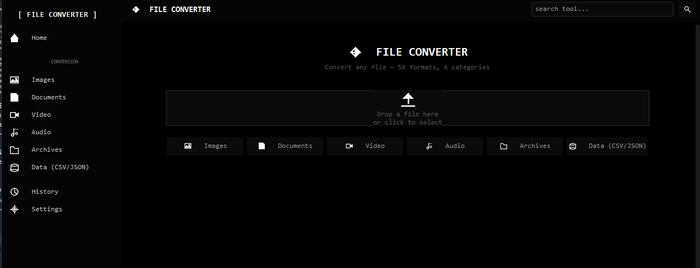
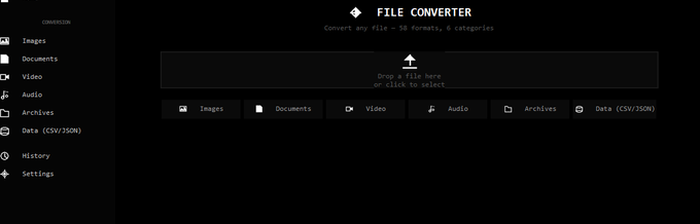
Redesigned README with badges, clean layout, cropped screenshots

diff --git a/README.md b/README.md
@@ -1,75 +1,104 @@
-# FILE CONVERTOR
+<p align="center">
+  <img src="https://img.shields.io/badge/⬇%20FILE%20CONVERTOR-1.0.0-000?style=for-the-badge&labelColor=1a1a1a" alt="FILE CONVERTOR" height="50">
+</p>
 
-> Drop a file. Pick a format. Done.
+<p align="center">
+  <strong>A simple file converter for Windows.</strong><br>
+  <em>Drop a file, pick a format, go.</em>
+</p>
 
-A simple file converter for Windows. Works offline. No ads. No signup.
+<p align="center">
+  <img src="https://img.shields.io/badge/Python-3.10+-blue?style=flat-square&logo=python" alt="Python">
+  <img src="https://img.shields.io/badge/Platform-Windows-0078D4?style=flat-square&logo=windows" alt="Windows">
+  <img src="https://img.shields.io/badge/Offline-Yes-success?style=flat-square" alt="Offline">
+  <img src="https://img.shields.io/badge/License-MIT-green?style=flat-square" alt="License">
+  <img src="https://img.shields.io/github/stars/xacrisoftware/FileConvertor?style=flat-square" alt="Stars">
+</p>
 
 ---
 
 ## 📸 Screenshots
 
-![App](assets/screenshots/Screenshot_3.png)
-![Settings & formats](assets/screenshots/Screenshot_4.png)
+<p align="center">
+  <img src="assets/screenshots/Screenshot_3.png" alt="FILE CONVERTOR interface" width="80%">
+  <br>
+  <em>Main interface — format selection and conversion</em>
+</p>
 
----
-
-## 📦 What you can convert
-
-| Category | Formats | Count |
-|----------|---------|-------|
-| 🖼️ Images | PNG ↔ JPEG ↔ WEBP ↔ BMP ↔ GIF ↔ TIFF ↔ ICO ↔ AVIF ↔ PPM ↔ PCX ↔ TGA ↔ QOI ↔ DDS ↔ SGI ↔ PDF ↔ more | **29** |
-| 🎬 Video | MP4 ↔ AVI ↔ MOV ↔ MKV ↔ WEBM ↔ GIF ↔ FLV ↔ WMV ↔ M4V ↔ MPEG ↔ 3GP ↔ OGV ↔ TS ↔ VOB ↔ more | **17** |
-| 🎵 Audio | MP3 ↔ WAV ↔ OGG ↔ FLAC ↔ M4A ↔ AAC ↔ OPUS ↔ AIFF ↔ AC3 ↔ WMA ↔ more | **12** |
-| 📄 Documents | TXT ↔ PDF ↔ DOCX | **3** |
-| 🗜️ Archives | ZIP / TAR / TAR.GZ | **3** |
-| 📊 Data | CSV ⟷ JSON | **2** |
-
-**58 formats. 6 categories. One app.**
+<p align="center">
+  <img src="assets/screenshots/Screenshot_4.png" alt="FILE CONVERTOR settings" width="80%">
+  <br>
+  <em>Settings — language, quality, bitrate</em>
+</p>
 
 ---
 
 ## ✨ Features
 
-- Dark minimal UI — dark theme, Consolas font, sharp edges
-- Drag & drop — drop a file on the home page, app detects the type
-- Swap formats — one click to swap source and target (⇄)
-- Custom filename — edit output name before converting
-- Quality & bitrate — fine-tune images, audio, video
-- Cancel — stop conversion anytime
-- Open file — [OPEN] button appears after conversion
-- History — all conversions saved
-- English / Русский — switch in settings
-- 100% offline — your files stay on your computer
+| | |
+|---|---|
+| **58 formats** | Images, Video, Audio, Documents, Archives, Data |
+| **Dark theme** | Minimal UI, Consolas font, sharp corners |
+| **Fully offline** | Your files never leave your computer |
+| **Drag & drop** | Drop a file, app detects the type automatically |
+| **Swap formats** | One click to swap source ↔ target |
+| **Quality control** | Sliders for images, bitrate selectors for audio/video |
+
+---
+
+## 📦 What you can convert
+
+| Category | Supported formats |
+|----------|------------------|
+| 🖼️ **Images** (29) | PNG, JPEG, WEBP, BMP, GIF, TIFF, ICO, AVIF, JPEG2000, PPM, PCX, TGA, QOI, DDS, SGI, PDF |
+| 🎬 **Video** (17) | MP4, AVI, MOV, MKV, WEBM, GIF, FLV, WMV, M4V, MPEG, 3GP, OGV, TS, VOB |
+| 🎵 **Audio** (12) | MP3, WAV, OGG, FLAC, M4A, AAC, OPUS, AIFF, AC3, WMA |
+| 📄 **Documents** (3) | TXT ↔ PDF ↔ DOCX |
+| 🗜️ **Archives** (3) | ZIP / TAR / TAR.GZ — create or extract |
+| 📊 **Data** (2) | CSV ⟷ JSON |
 
 ---
 
 ## ⬇️ Download
 
-| Version | What to do |
-|---------|-----------|
-| **Portable** | Download `FileConvertor.exe` and run it. No install. |
-| **Installer** | Download `FileConvertor_Setup_v1.0.0.exe`, run, click Next. |
-| **From source** | `git clone` → `pip install -r requirements.txt` → `python src/main.py` |
+| Version | File | What to do |
+|---------|------|-----------|
+| 🪟 **Portable** | `FileConvertor.exe` | Download and run. No install. |
+| 📦 **Installer** | `FileConvertor_Setup_v1.0.0.exe` | Run, click Next, done. Desktop shortcut. |
+| 🐍 **Source** | `git clone ...` | Requires Python + dependencies |
 
-[Latest release →](https://github.com/xacrisoftware/FileConvertor/releases)
+**[Download latest →](https://github.com/xacrisoftware/FileConvertor/releases)**
+
+```bash
+# From source
+git clone https://github.com/xacrisoftware/FileConvertor.git
+cd FileConvertor
+pip install -r requirements.txt
+python src/main.py
+```
 
 ---
 
 ## 🔧 Requirements
 
-- Windows 10 or 11 (64-bit)
-- [FFmpeg](https://ffmpeg.org/) — needed for video & audio (`winget install ffmpeg` or download from ffmpeg.org)
+- **Windows 10 or 11** (64-bit)
+- **FFmpeg** — needed for video & audio conversion ([download](https://ffmpeg.org/) or `winget install ffmpeg`)
 
 ---
 
-## 🧱 Built with
+## 🧱 Tech stack
 
-[Python](https://python.org) + [CustomTkinter](https://customtkinter.tomschimansky.com)  
-[Pillow](https://python-pillow.org) · [moviepy](https://zulko.github.io/moviepy) · [pydub](https://github.com/jiaaro/pydub)  
-[fpdf2](https://pyfpdf.github.io/fpdf2) · [python-docx](https://python-docx.readthedocs.io) · [PyMuPDF](https://pymupdf.readthedocs.io)
+| Layer | Libraries |
+|-------|-----------|
+| **UI** | [Python](https://python.org) + [CustomTkinter](https://customtkinter.tomschimansky.com) |
+| **Images** | [Pillow](https://python-pillow.org) — 29 formats |
+| **Video** | [moviepy](https://zulko.github.io/moviepy) — 17 formats |
+| **Audio** | [pydub](https://github.com/jiaaro/pydub) — 12 formats |
+| **Documents** | [fpdf2](https://pyfpdf.github.io/fpdf2) + [python-docx](https://python-docx.readthedocs.io) + [PyMuPDF](https://pymupdf.readthedocs.io) |
+| **Archives** | zipfile / tarfile (stdlib) |
 
 ---
 
 ## 📄 License
 
-MIT — do whatever you want.
+MIT — do whatever you want. See [LICENSE](LICENSE).